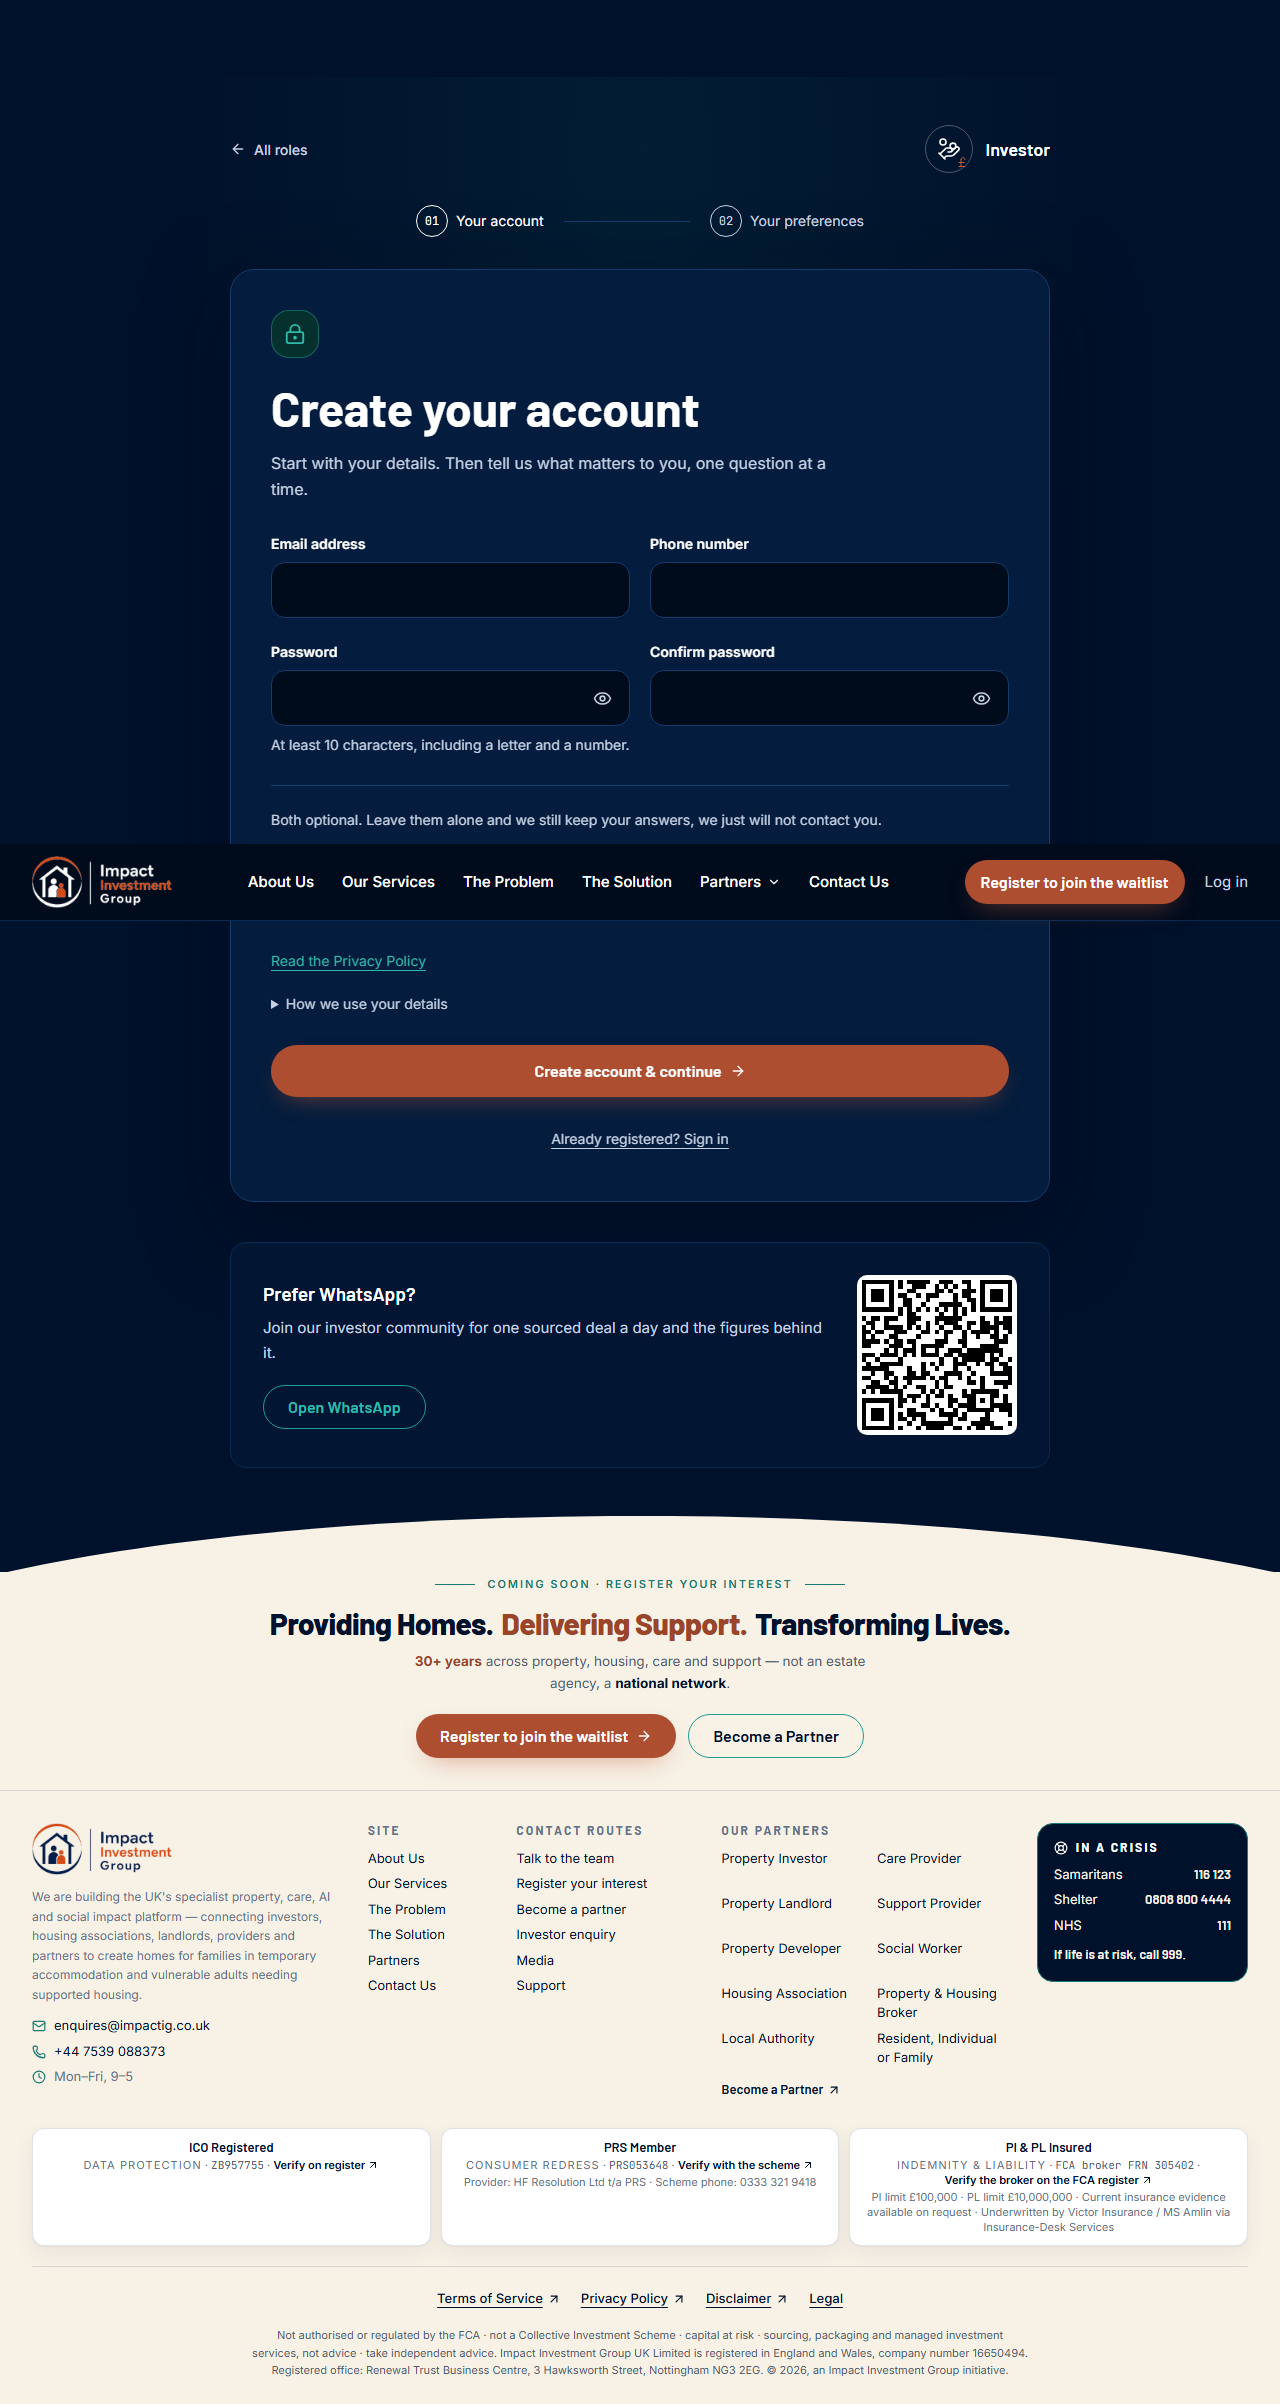
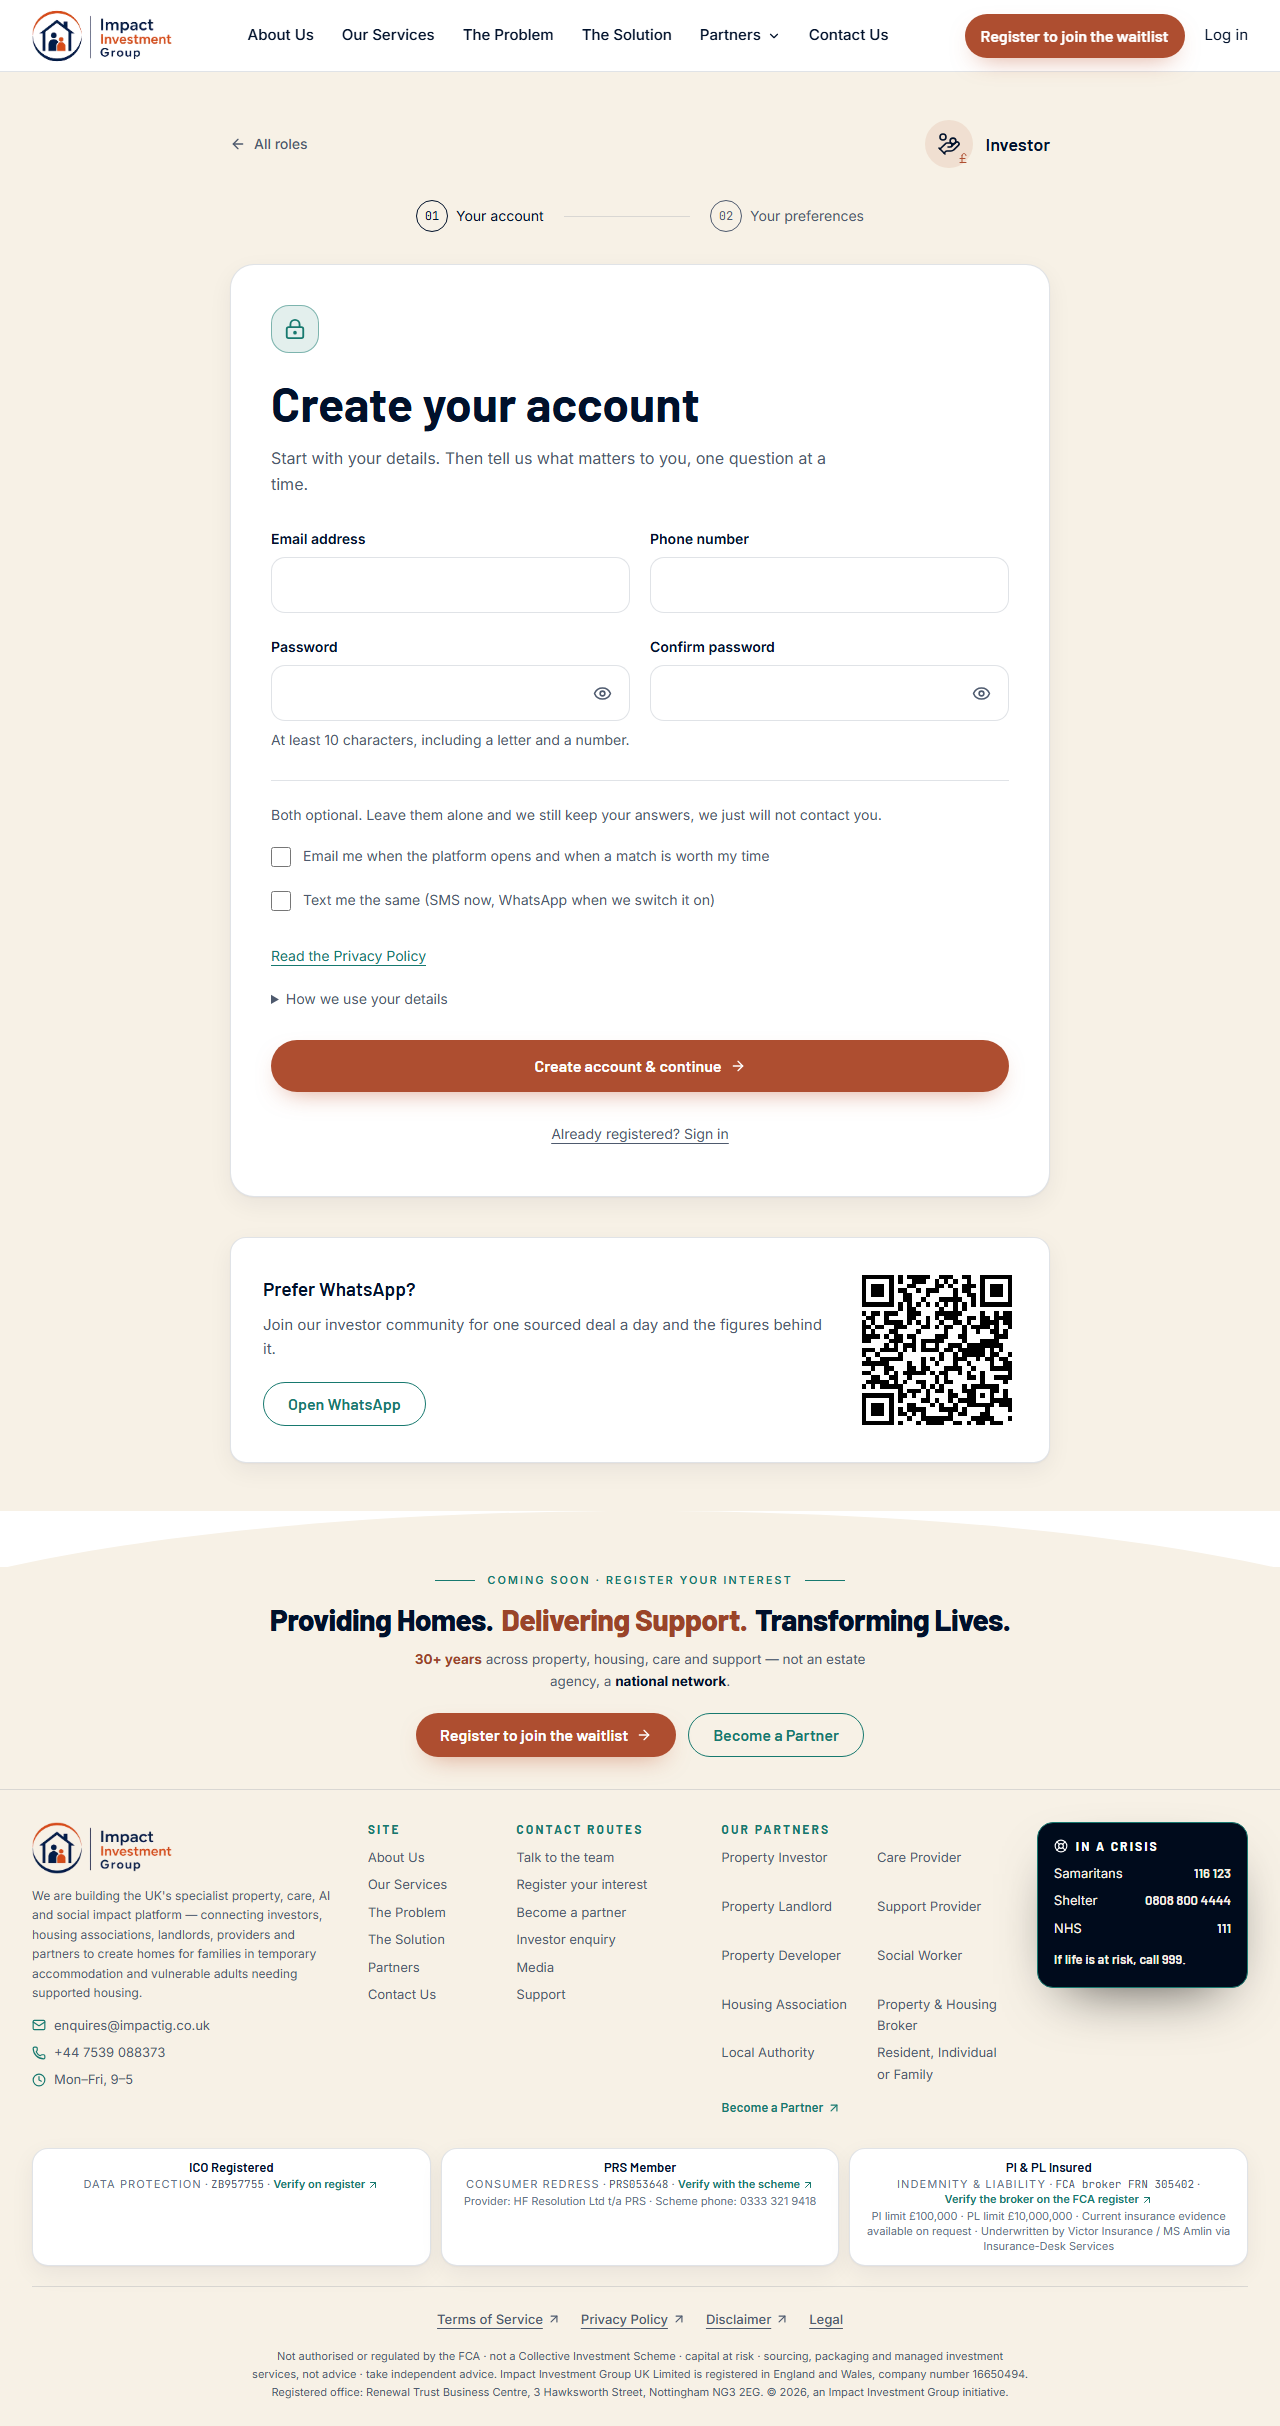
test(415b): run wave 411's gate, re-shoot its two stale images, give it settle
rel415 MAJOR 1. Wave 415 skipped scripts/wave411-screenshots.py on the
stated premise that it "was written against the navy card on the pre-412
dark site and its assertions are about a surface that no longer exists",
and raised proposal 5 to delete it on the same ground. The re-checker
read all 104 lines. The premise is false: there is no colour, surface or
plate assertion anywhere in the file. Its four assertions are the
"Prefer WhatsApp?" heading, the QR visible if and only if width >= 640,
an href starting https://chat.whatsapp.com/, and a form on the page.

RUN, at this head, rc 0:

  1280: form=True, qr=True,  button=True, card on screen at 470..502,
        resting scrollY=0.0
  390:  form=True, qr=False, button=True, card on screen at 462..494,
        resting scrollY=0.0

All four assertions hold, on the one route the card now survives on.

THE TWO SHOTS ARE RE-TAKEN, not deleted. docs/screenshots/wave411/
register-1280.png and register-390.png were new files in this branch's
diff, carried unchanged from bc3eb4c, which was built at 9adb0bb from
BEFORE wave 412 turned the ground white. The tree was shipping two
committed images of a navy card the site no longer has. Measured over
register-390.png whole:

  committed at 9adb0bb   390x4151, 46.10% dark, second commonest
                         colour navy-800 (4, 28, 61)
  re-shot at 415b        390x4613,  5.95% dark, second commonest
                         colour white (255, 255, 255)
[…]

diff --git a/scripts/wave411-screenshots.py b/scripts/wave411-screenshots.py
@@ -15,6 +15,25 @@ The assertions are the point, not the images. A screenshot of a page where the
 QR silently failed to load looks very like a screenshot of a page where it
 worked, so the run fails loudly if the QR is not visible at 1280, if it is
 visible at 390, or if the button is missing from either.
+
+WAVE 415b, rel415 MAJOR 1. This gate was carried in by the wave 411 merge and
+NOT RUN, on a stated premise that it "asserts the pre-412 navy card that no
+longer exists". That premise was false and the re-checker read every line to
+show it: there is no colour, surface or plate assertion anywhere in this file.
+Its four assertions are the heading, the QR breakpoint, the invite href and
+the presence of a form, and all four hold on the light site, on the one route
+the card now survives on. It is run now, and its two shots are re-taken at the
+415b head, because the pair committed by the merge were shot at 9adb0bb, from
+BEFORE wave 412 turned the ground white, and showed a navy card the site no
+longer has.
+
+And it now settles the way the other three do (rel414b MINOR 1, which this
+gate was added to the tree without inheriting): `src/styles.css` carries
+`scroll-behavior: smooth` on `html`, so the bare `scrollTo(0, y)` this used to
+issue in a loop, and the bare `scrollTo(0, 0)` after it, were ANIMATED, and
+the blind 600ms wait that followed confirmed nothing. Instant scroll, a polled
+top confirmation that FAILS rather than waits, and a polled confirmation that
+the card really is on screen before the shutter opens.
 """
 
 import functools
@@ -48,14 +67,59 @@ def serve(directory: Path) -> int:
 
 
 def settle(page):
-    """Scroll the page once so no section is photographed mid-fade."""
+    """Scroll the page once so no section is photographed mid-fade.
+
+    Every scroll is `behavior: 'instant'`. Identical to `settle` in
+    `scripts/wave412-screenshots.py` and `scripts/wave414-mobile.py` on
+    purpose: four gates, one settle. The return to the top is NOT done here,
+    because a scroll nothing confirms is a guess; `to_top` below does it and
+    reports where the page actually is.
+    """
     page.evaluate(
         "async () => { const step = innerHeight; "
         "for (let y = 0; y < document.body.scrollHeight; y += step) "
-        "{ scrollTo(0, y); await new Promise(r => setTimeout(r, 120)); } "
-        "scrollTo(0, 0); }"
+        "{ scrollTo({ top: y, behavior: 'instant' }); "
+        "await new Promise(r => setTimeout(r, 120)); } }"
     )
-    page.wait_for_timeout(600)
+    page.wait_for_timeout(300)
+
+
+def to_top(page) -> float:
+    """Put the page at the top and return where it actually is.
+
+    Returned rather than asserted here, so the caller names the shot in the
+    failure. Identical to `to_top` in `scripts/wave412-screenshots.py` and
+    `scripts/wave414-mobile.py`.
+    """
+    for _ in range(12):
+        page.evaluate("() => scrollTo({ top: 0, behavior: 'instant' })")
+        page.wait_for_timeout(100)
+        if page.evaluate("() => window.scrollY") <= 0.5:
+            return 0.0
+    return page.evaluate("() => window.scrollY")
+
+
+def assert_on_screen(page, locator, where: str) -> tuple[float, float]:
+    """Poll until the card is inside the viewport, and FAIL if it never is.
+
+    `scroll_into_view_if_needed` is a request, and `html { scroll-behavior:
+    smooth }` makes the browser's own scrolls animate too. This is the
+    `assert_scrolled` of `scripts/wave413-motion.py` in the shape this gate
+    needs: the thing the shot exists to show has to be on screen before the
+    reading is taken, and a fixed wait after a scroll request proves nothing.
+    Returns the card's top and bottom in viewport coordinates.
+    """
+    for _ in range(12):
+        box = locator.bounding_box()
+        height = page.evaluate("() => innerHeight")
+        if box and box["y"] >= -0.5 and box["y"] + box["height"] <= height + 0.5:
+            return box["y"], box["y"] + box["height"]
+        page.wait_for_timeout(100)
+    box = locator.bounding_box()
+    raise SystemExit(
+        f"{where}: the card never came to rest on screen "
+        f"(box={box}, innerHeight={page.evaluate('() => innerHeight')})"
+    )
 
 
 def main() -> None:
@@ -76,7 +140,7 @@ def main() -> None:
             card = page.get_by_role("heading", name="Prefer WhatsApp?")
             card.wait_for(state="visible")
             card.scroll_into_view_if_needed()
-            page.wait_for_timeout(400)
+            top, bottom = assert_on_screen(page, card, f"{width}")
 
             qr_visible = page.locator(QR).is_visible()
             button_visible = page.locator(BUTTON).is_visible()
@@ -90,11 +154,20 @@ def main() -> None:
             if not form_present:
                 raise SystemExit(f"{width}: no form on the page, so the card is not below one")
 
+            resting = to_top(page)
+            if resting > 0.5:
+                raise SystemExit(
+                    f"{width}: the page would not return to the top before the "
+                    f"shutter (scrollY={resting:.1f}), so this shot would be a "
+                    f"photograph of a page mid-scroll"
+                )
+
             target = OUT / f"register-{width}.png"
             page.screenshot(path=str(target), full_page=True)
             print(
                 f"{width}: wrote {target.relative_to(ROOT)} "
-                f"(form={form_present}, qr={qr_visible}, button={button_visible})"
+                f"(form={form_present}, qr={qr_visible}, button={button_visible}, "
+                f"card on screen at {top:.0f}..{bottom:.0f}, resting scrollY={resting:.1f})"
             )
             page.close()
         browser.close()

diff --git a/docs/WAVE415_REPORT.md b/docs/WAVE415_REPORT.md
@@ -365,7 +365,7 @@ Every one run in the foreground, whole, at `a4d453b`, and read here. `a4d453b` i
 
 ### Not run, and why
 
-- **`scripts/wave411-screenshots.py`** came in with the merge and was **not run**. It was written against the navy card on the pre-412 dark site and its assertions are about a surface that no longer exists; wave 411's own report is the record of it. The card is covered by all four standing gates instead, which is stricter. **Proposal 5**: retire or rewrite it.
+- ~~**`scripts/wave411-screenshots.py`** came in with the merge and was **not run**. It was written against the navy card on the pre-412 dark site and its assertions are about a surface that no longer exists.~~ **FALSE, and corrected in 415b (rel415 MAJOR 1): the script contains no colour, surface or plate assertion at all.** Its four assertions are the heading, the QR breakpoint, the invite href and the presence of a form, and all four hold on the light site. **It was run in 415b, rc 0**, and its two shots were re-taken at the 415b head. See section 11.2.
 - **`scripts/wave295-*`, `scripts/wave298-*` and `scripts/wave358-registration.test.ts`** are earlier waves' gates and outside this brief's four.
 - **One transient**: an intermediate `wave414-mobile.py` run reported `contact @ 667x375` with no ink and a missing `<title>`, under heavy concurrent load. It did not recur in either subsequent full run and the final run is clean. Recorded rather than hidden.
 
@@ -377,7 +377,7 @@ Every one run in the foreground, whole, at `a4d453b`, and read here. `a4d453b` i
 2. **The credit renders at 82.2 x 18.0 CSS px at every width, including 360.** That is small for a partner's trademark and this site's own lockup carries a stated 140px minimum. Nothing was changed, because the right size is Zoopla's call and not ours. **Recommended: raise it to about 110px wide once their minimum is known.**
 3. **Four things are now dead and were deliberately left alive**: `src/content/platform.ts`, `src/components/solutions/role-utils.ts`, `src/components/solutions/section-rail.tsx` and the `.image-fill-line` rule in `src/styles.css`. They are a consequence of item 2 and outside its named list. **Recommended: delete them in the next wave, by the same three-way verification.**
 4. **The QR image's `alt` says "Impact Investment Group"; `siteName` says "Impact Investment Platform".** Wave 411's string, left verbatim under the no-new-strings rule. **Recommended: change it to "Impact Investment Platform" in the next wave.**
-5. **`scripts/wave411-screenshots.py` asserts a surface that no longer exists.** **Recommended: delete it; the four standing gates cover the card better.**
+5. ~~**`scripts/wave411-screenshots.py` asserts a surface that no longer exists. Recommended: delete it.**~~ **WITHDRAWN in 415b.** The premise was false: the script asserts no surface, no colour and no plate. It is a working gate, it is the only check that binds the QR to the `sm` breakpoint rather than to a screenshot a human has to read, and deleting it would have been the one thing in this wave that removed a check. It is run, green, and now settles like the other three. **Recommended instead: keep it, and run it in every wave that touches `/register/<role>`.**
 6. **The Zoopla credit has no `srcSet`**, so `zoopla-ink-400.webp` is generated, committed and never served, and a 548px source is drawn at 82px. **Recommended: give it `variantSrcSet` like the other images, worth about 9 KiB on the home page's eager path.**
 7. **The performance floor.** Unmet on three or four routes depending on machine load, and untouched by this wave. It needs a decision about what the home page may stop doing, which is Callum's. **Recommended: take a Lighthouse reading on a quiet machine before deciding anything.**
 8. **`/about` runs a 23.2-character column at 768 and 10.3 at 667x375**, carried forward from 414b unchanged and still measured and printed on every run.
